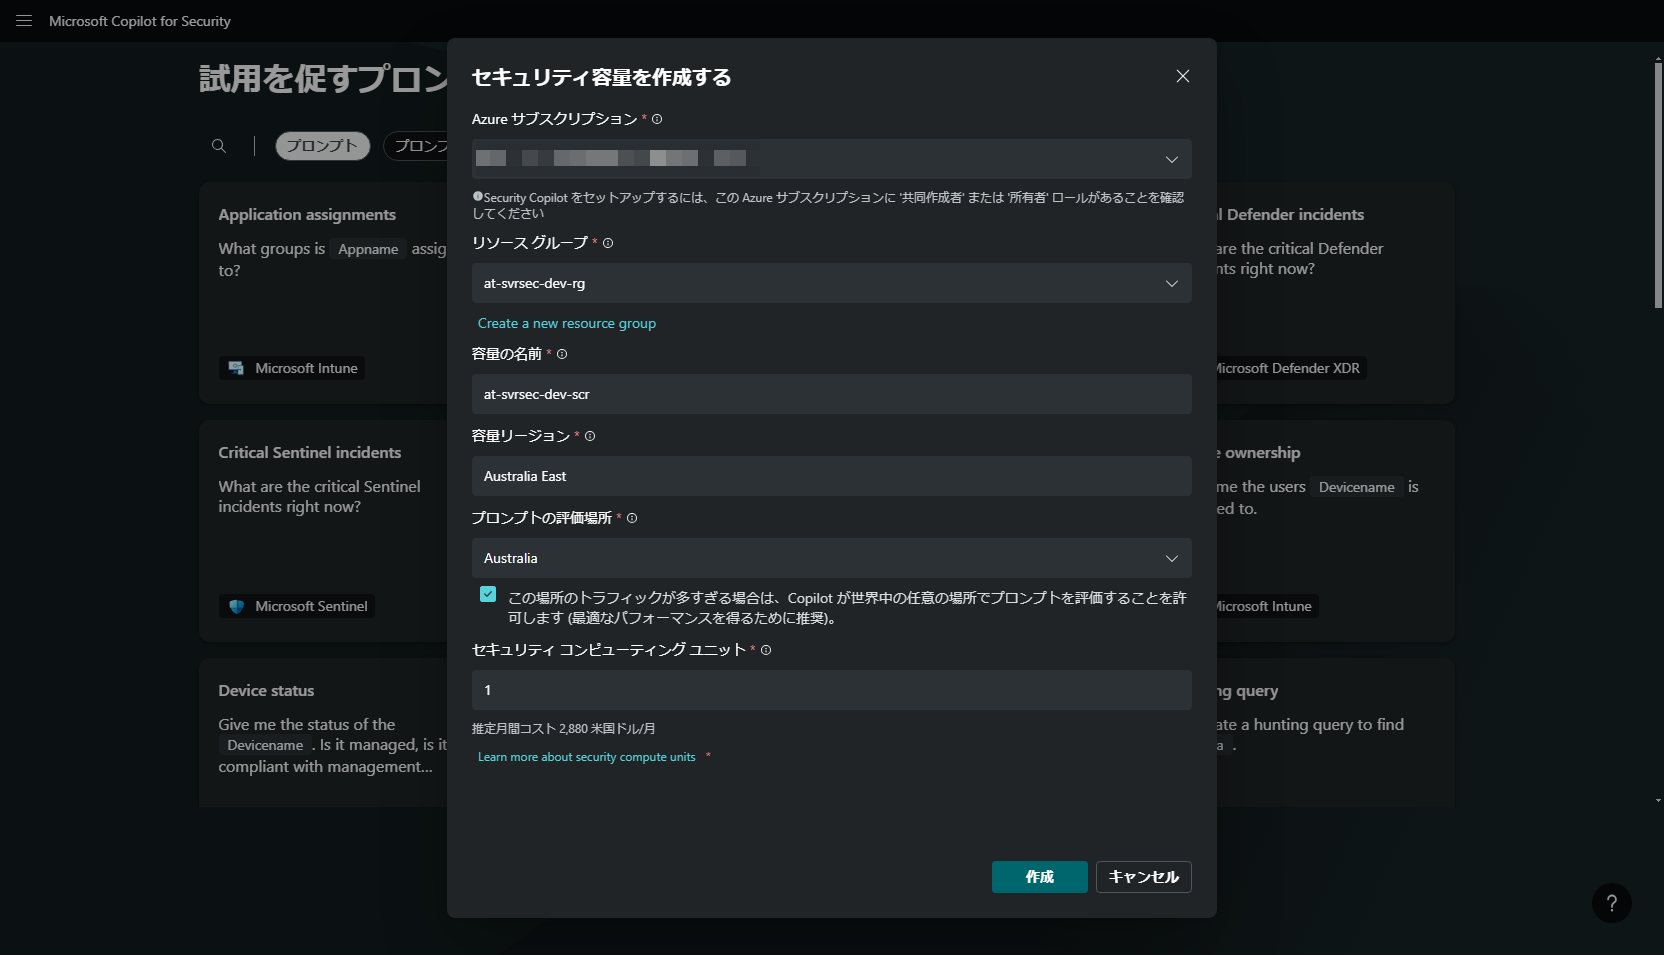
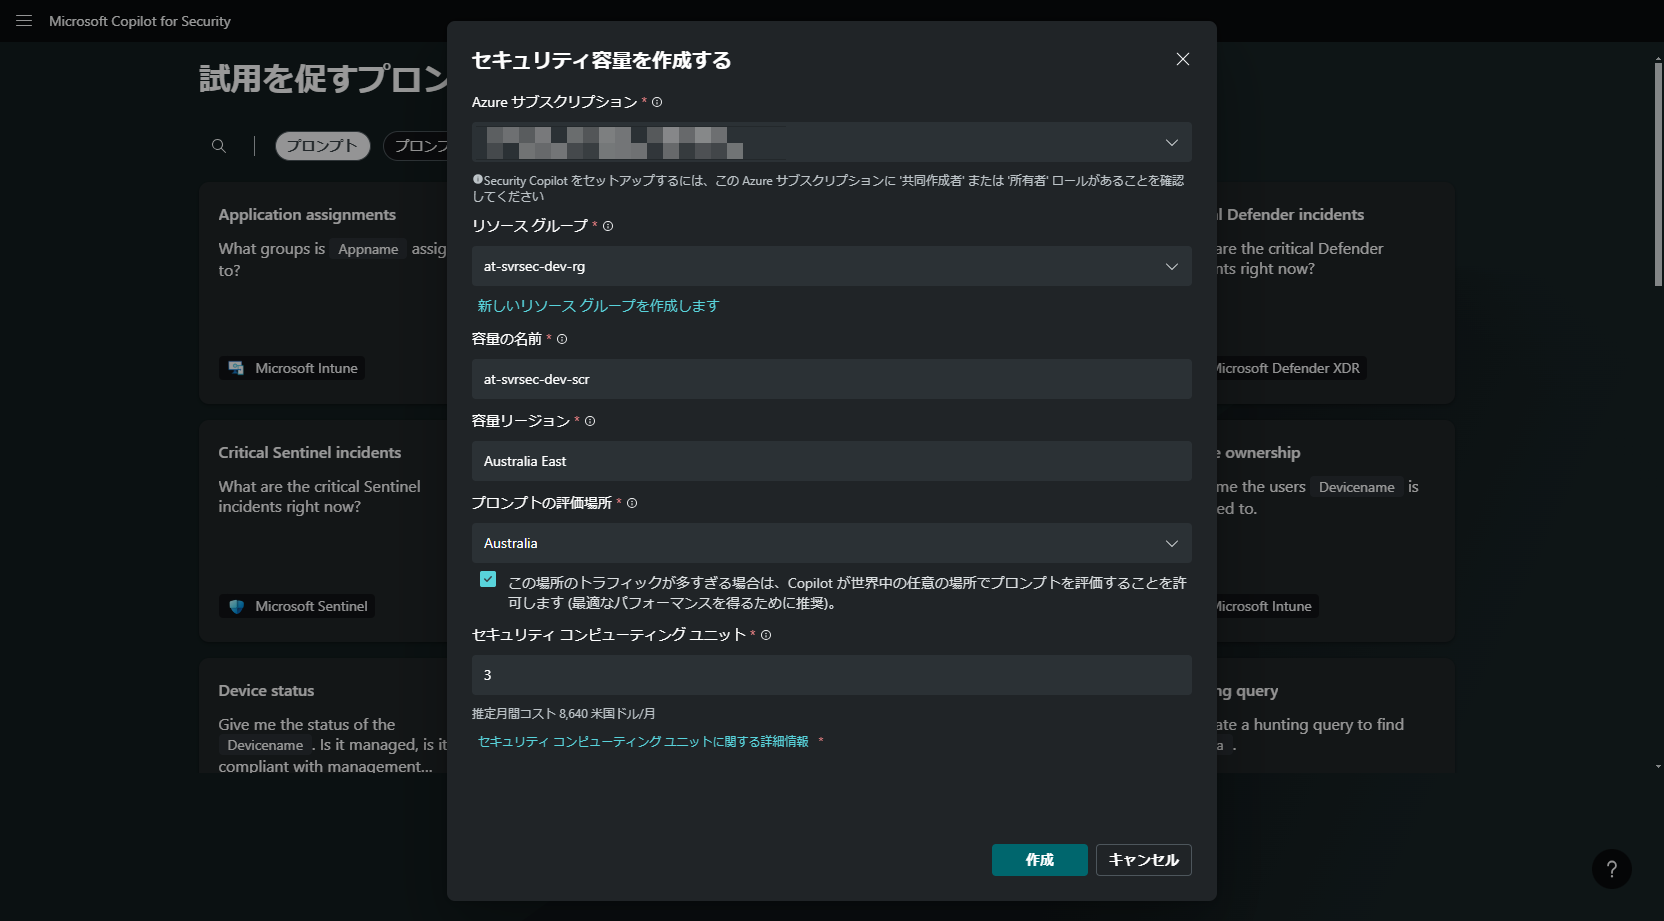
推定時間を追記。

diff --git a/docs/80-copilotforsecurity.md b/docs/80-copilotforsecurity.md
@@ -1,6 +1,8 @@
 # ExXX: Microsoft Security Copilot の利用
 
-#### ⏳ 推定時間: 40分
+#### ⏳ 推定時間
+
+- 12 ~ 20分
 
 #### 💡 学習概要
 
@@ -34,7 +36,7 @@ Security Computing Unit (SCU) のプロビジョニング、Security Copilot の
     - 容量リージョン: (プロンプトの評価場所を設定すると自動入力される)
     - プロンプトの評価場所: `Australia`
     - ✅ この場所のトラフィックが多すぎる場合は、Copilotが世界中の任意の場所でプロンプトを評価することを許可します
-    - セキュリティコンピューティングユニット: `1`
+    - セキュリティコンピューティングユニット: `3`
 
     ![](../images/ex08/001-provision.png)
 
